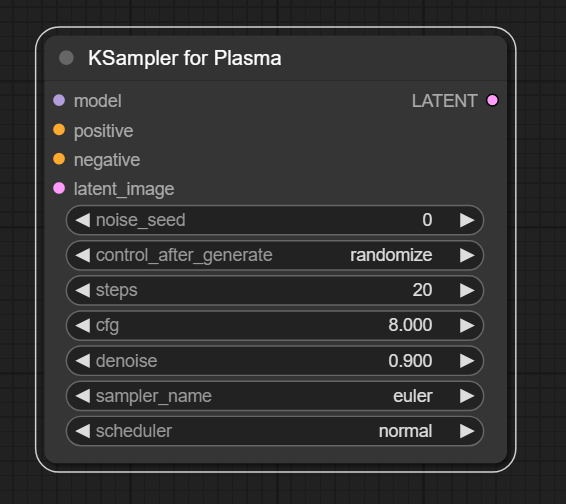
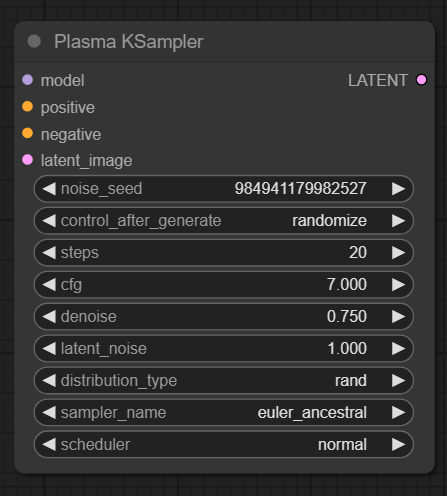
Improve documentation

Changed region(s): [[0.0291, 0.0302, 0.9597, 0.9677]]

diff --git a/README.md b/README.md
@@ -15,11 +15,29 @@ A simple plasma noise generator for ComfyUI. Other noise generators may appear o
 
 ____
 ## KSampler Plasma:
-## ***WARNING: This node does not add latent noise to the image and is entirely dependant on the noise from the Plasma Noise node. It otherwise works exactly like any other KSampler in ComfyUI.***
-
 ![Example](images/ksampler_node.png)
+
+* Noise Seed: The noise seed used in Latent Noise.
+* Control After Generate: 
+  * Fixed, seed stays the same after generations.
+  * Increment, seed increases by 1 after generations.
+  * Decrement, seed decreases by 1 after generations.
+  * Randomize, seed randomly changes after generations.
+* Steps: The number of steps the software should take while resolving your image.
+* CFG: How strongly should the prompts be followed? Less CFG means more creativity, more CFG means less creativity, but more accurate prompts.
+* Denoise: How much should the image be blurred to allow the model to interpret the noise/image with noise? Higher values at high resolutions can induce faces within faces. Lower values will look closer to the input image/noise but prevent faces within faces.
+* Latent Noise: How strong should the built in noise be. 0 means no noise is used, and 1 means it's adding all the noise.
+* Distribution Type:
+  * Default, uses torch.randn() which is a gaussian distributed noise algorithm. Unable to make very dark, very bright or high contrast images.
+  * Rand, uses torch.rand() whch is a truly random noise algorithm. Doesn't stick to a single random distribution and can change wildly based on input.
+* Sampler Name: Pick the one that works for you best. Some may require more steps than others.
+* Schedular: Pick the one that works for you best.
 ____
 # Example Workflow:
-An example to use Plasma Noise as a replacement noise for txt2img is as follows:
-
 ![How to use it](images/example.png)
+
+# Using Plasma Sampler with Plasma Noise:
+![Example](images/example_plasma_setup.png)
+
+# Using Plasma Sampler without Plasma Noise:
+![Example](images/example_latent_setup.png)
